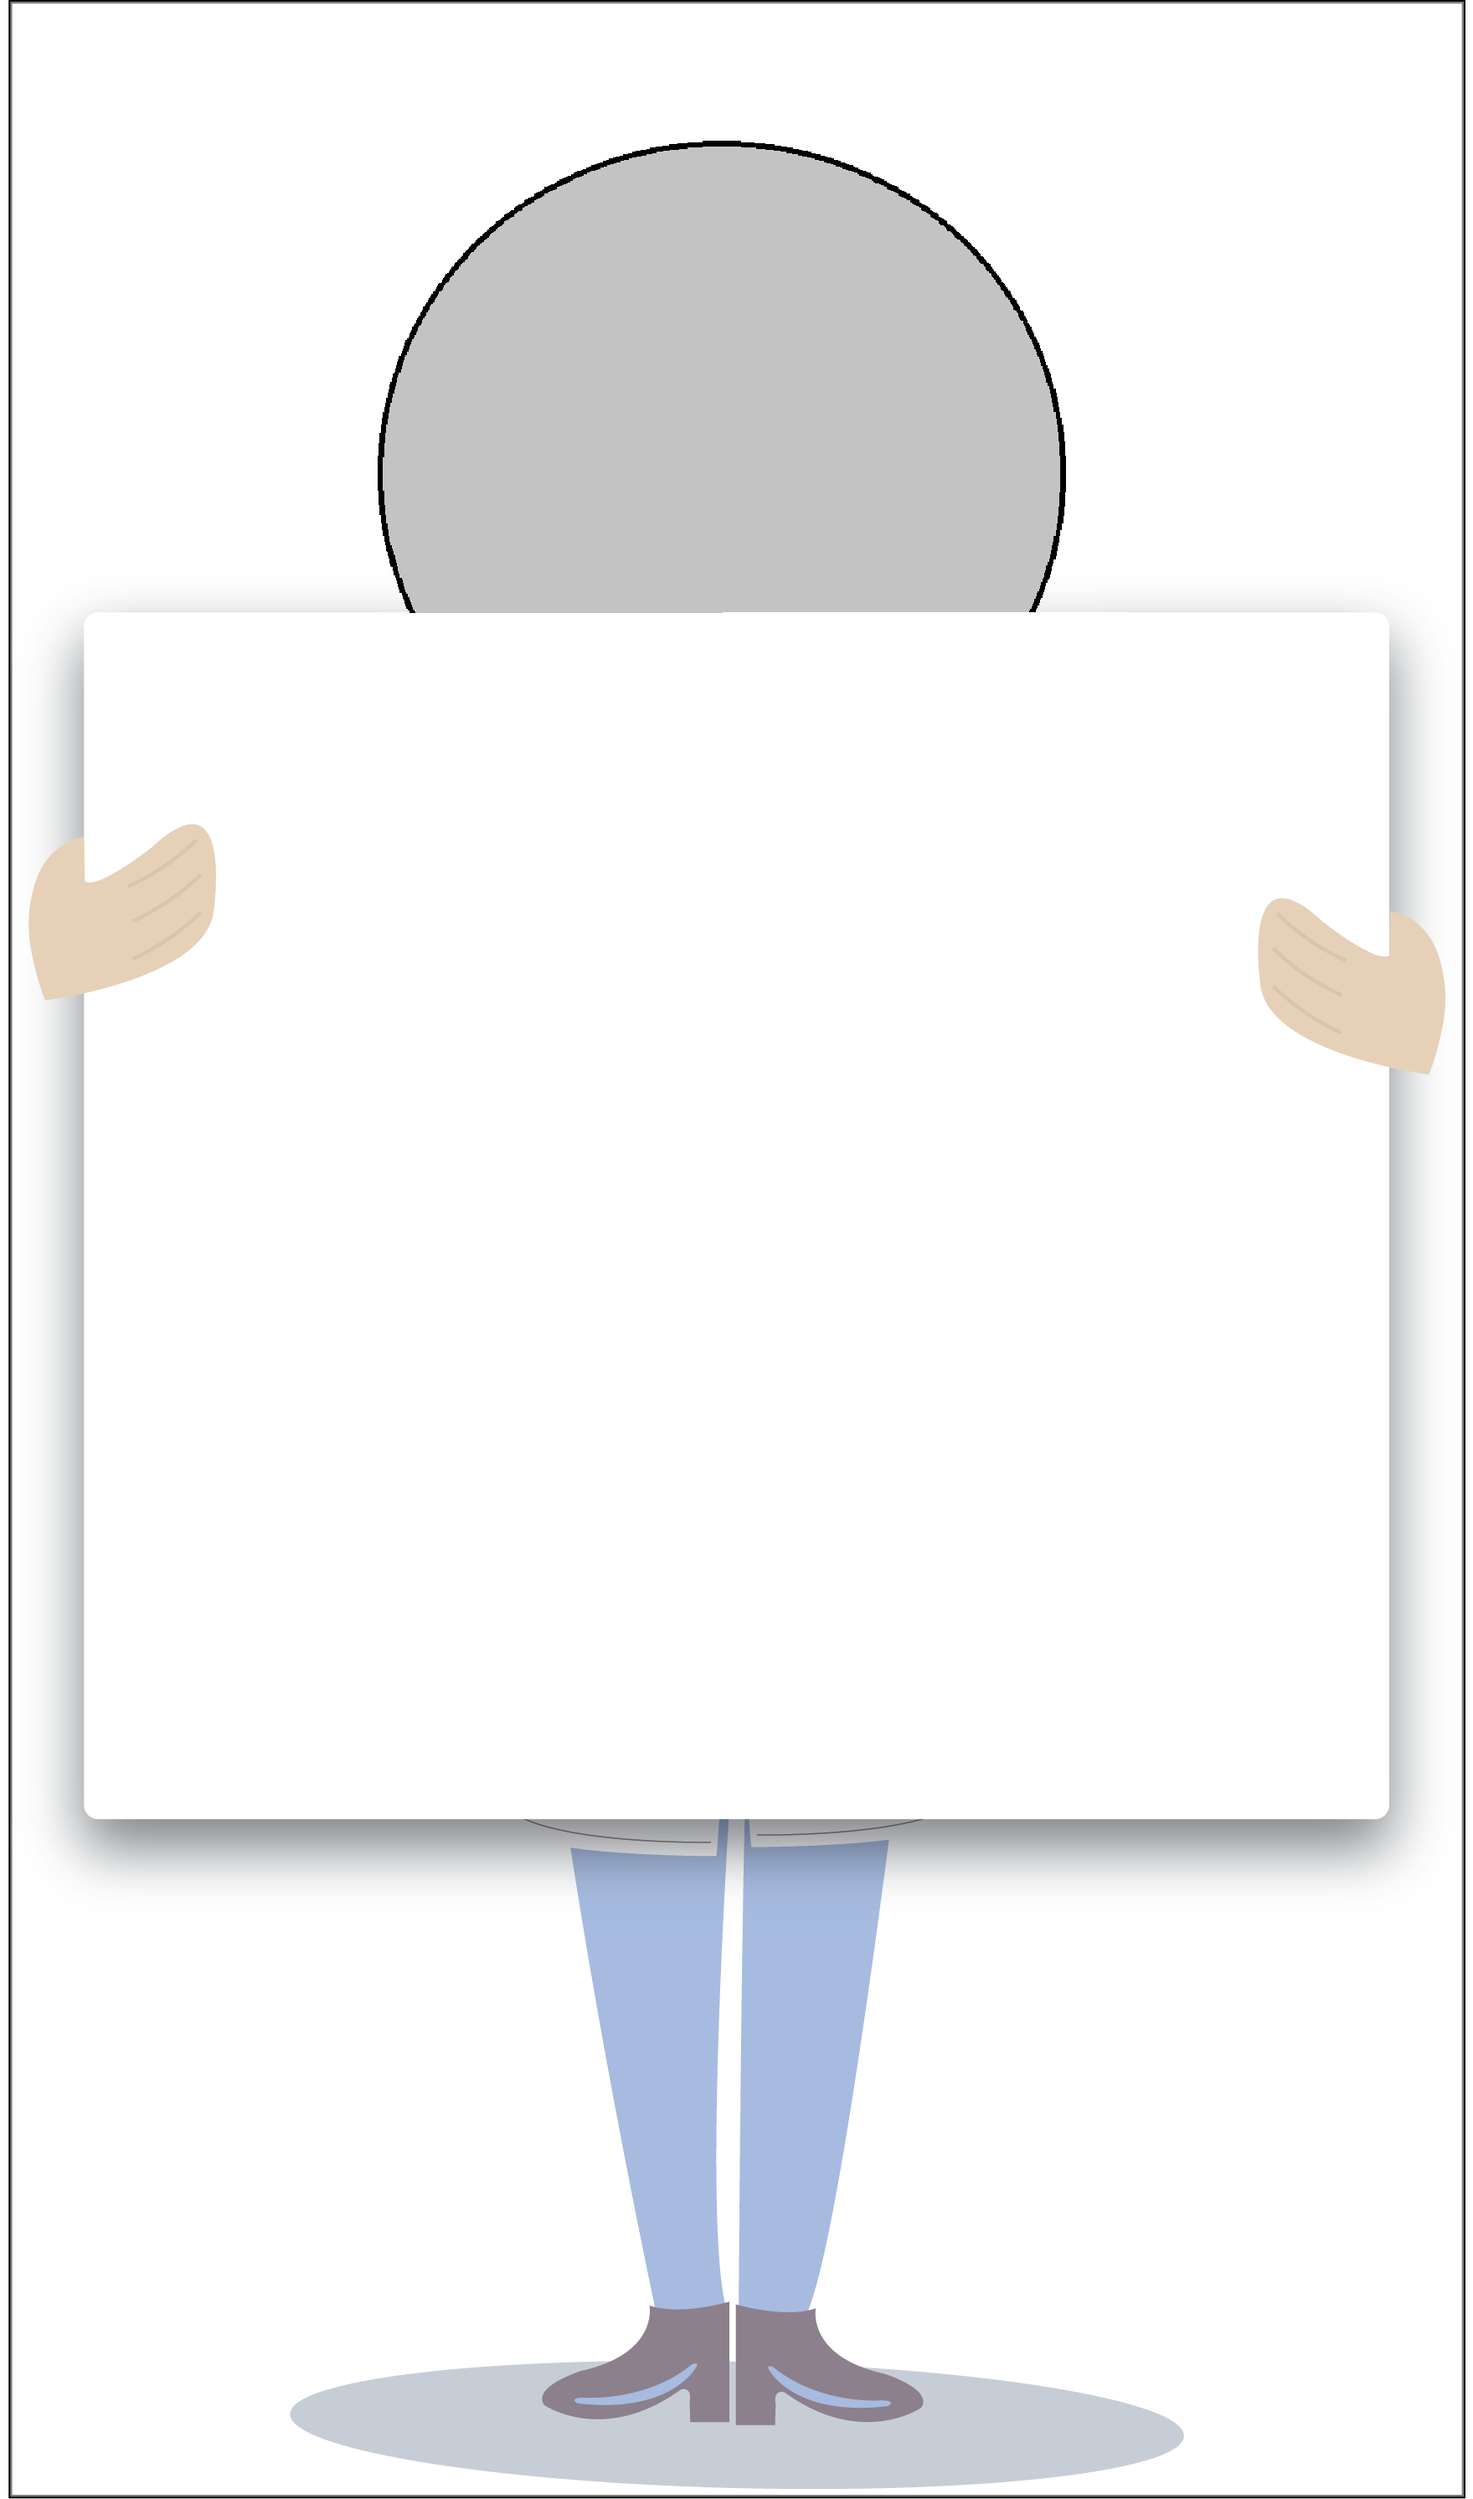
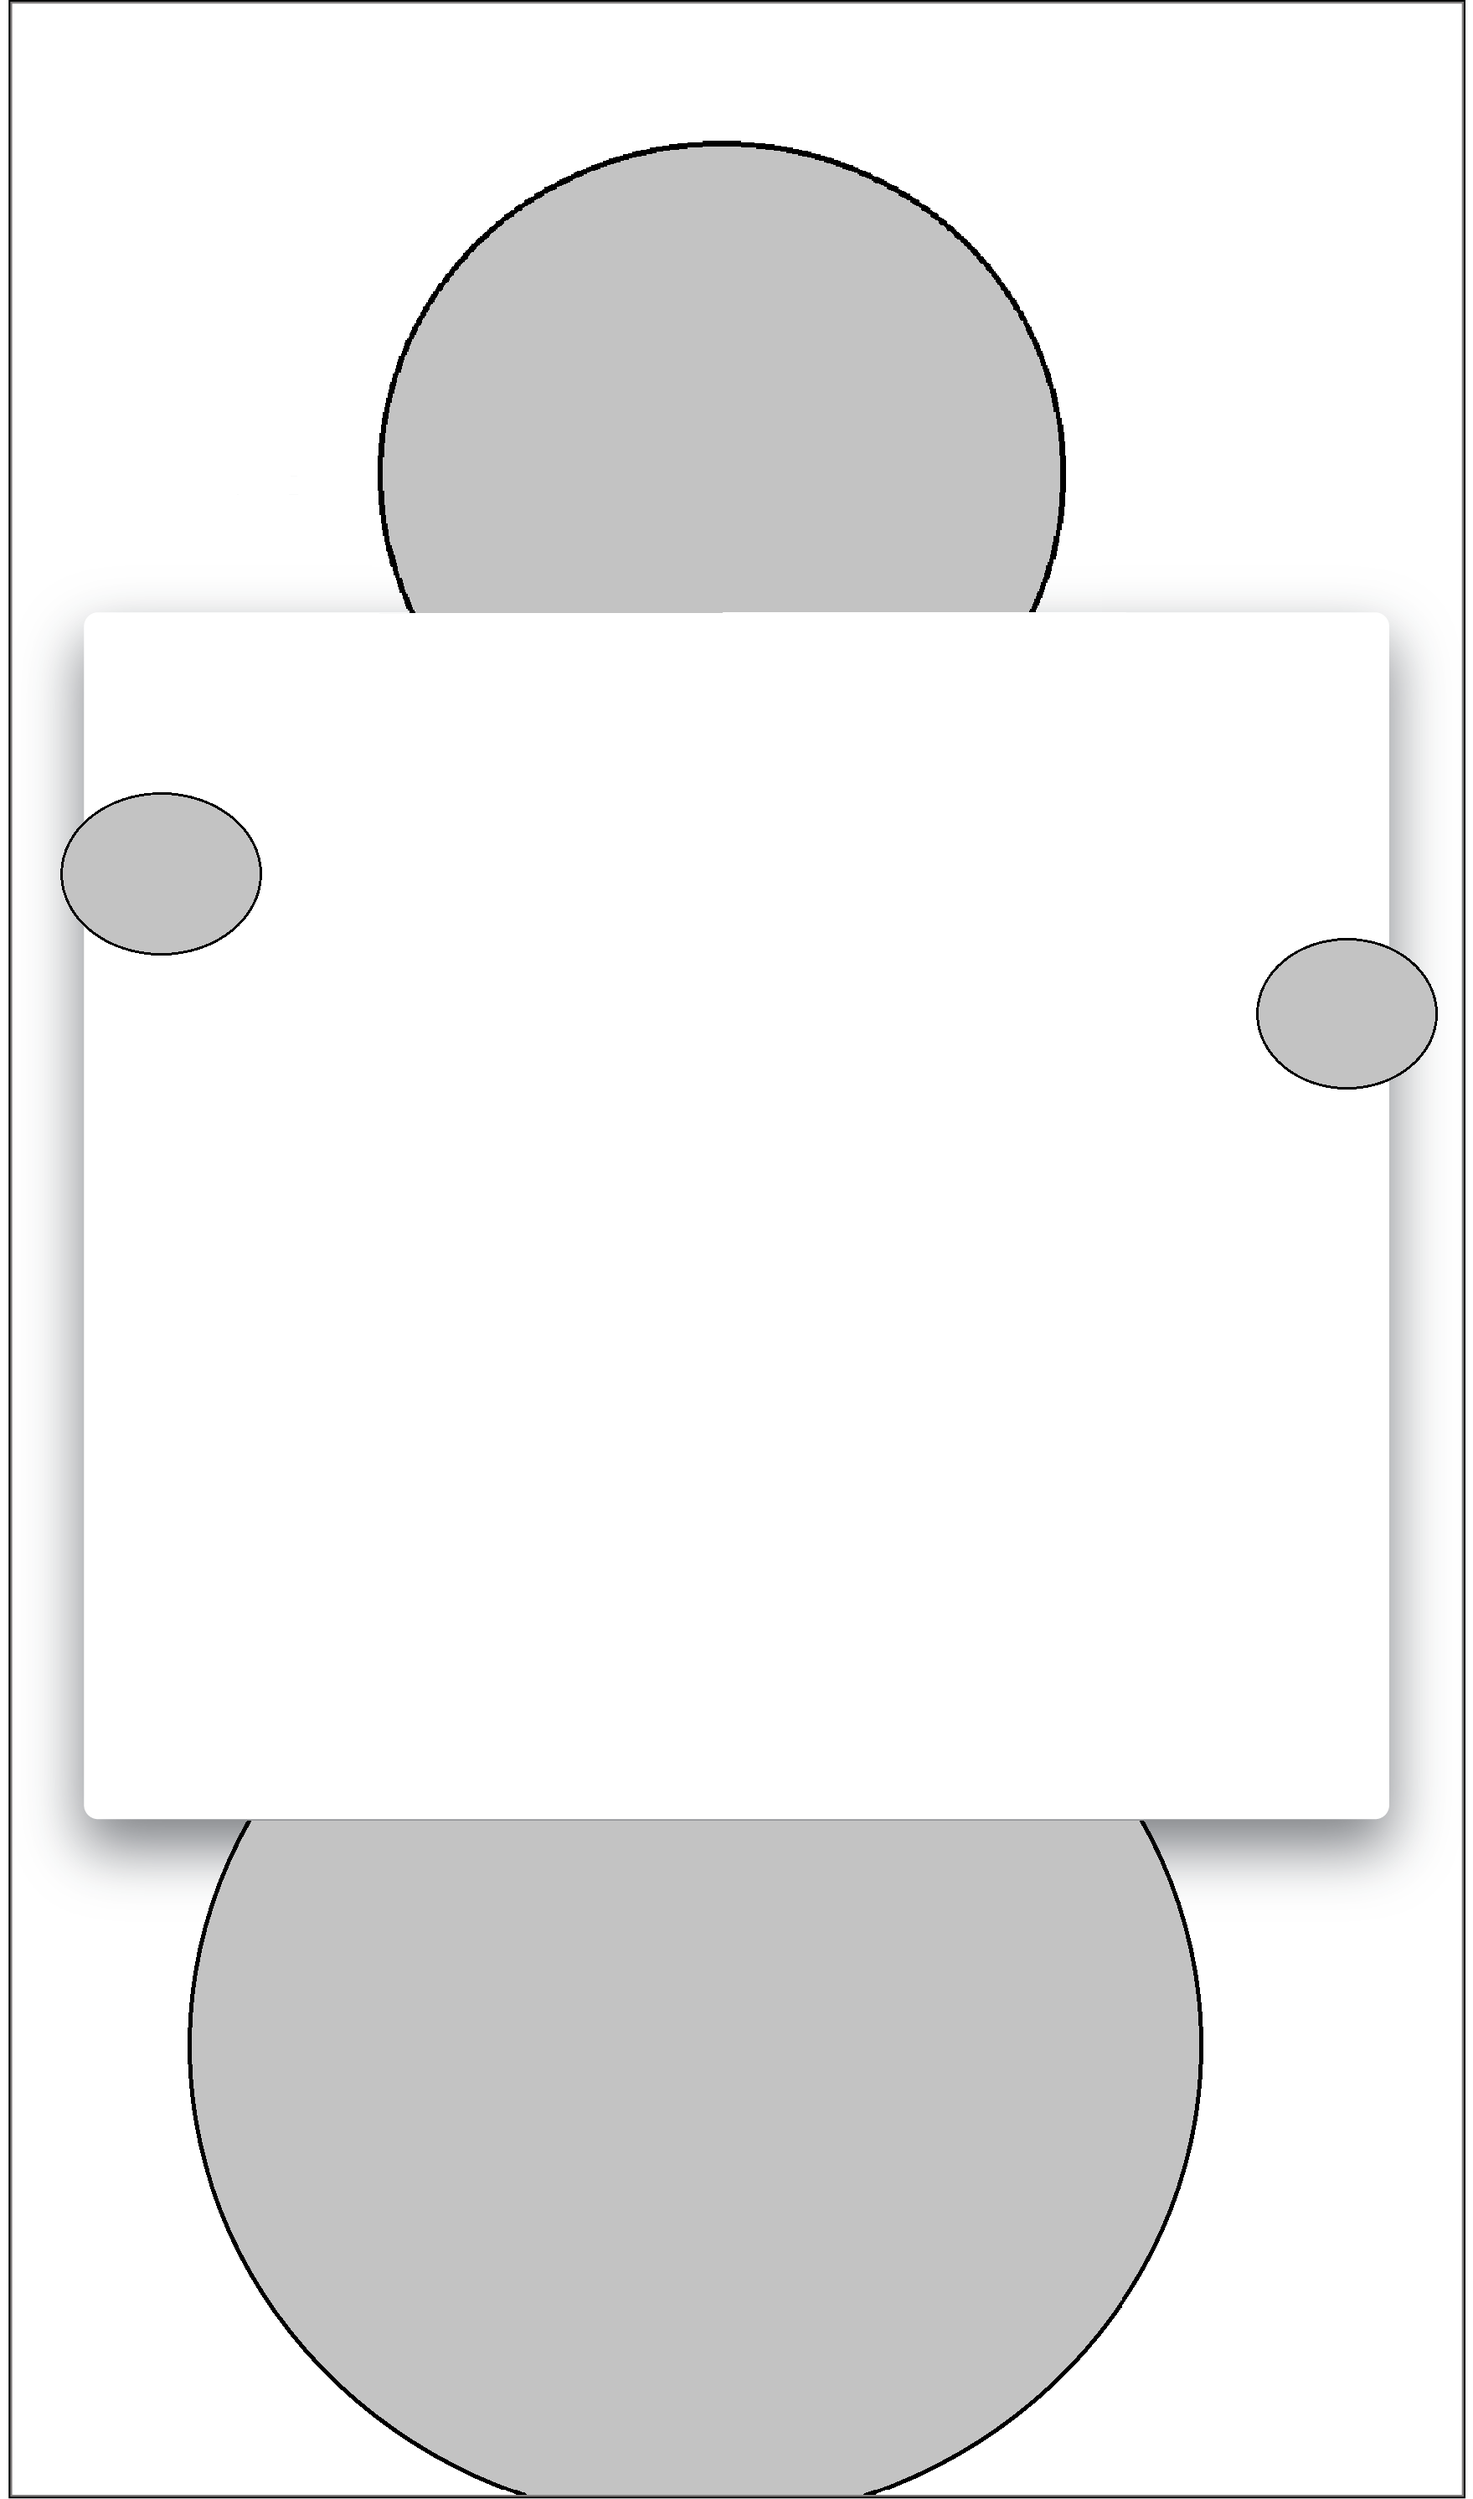
change MEG to snowman

Changed region(s): [[0.1228, 0.7168, 0.8289, 1.0], [0.0, 0.3117, 0.1842, 0.4052], [0.8289, 0.3428, 0.9824, 0.4363]]

diff --git a/main.js b/main.js
@@ -1,4 +1,4 @@
-const MEG_VERSION = true;
+const MEG_VERSION = false;
 
 let gameInterval;
 let secondInterval;
